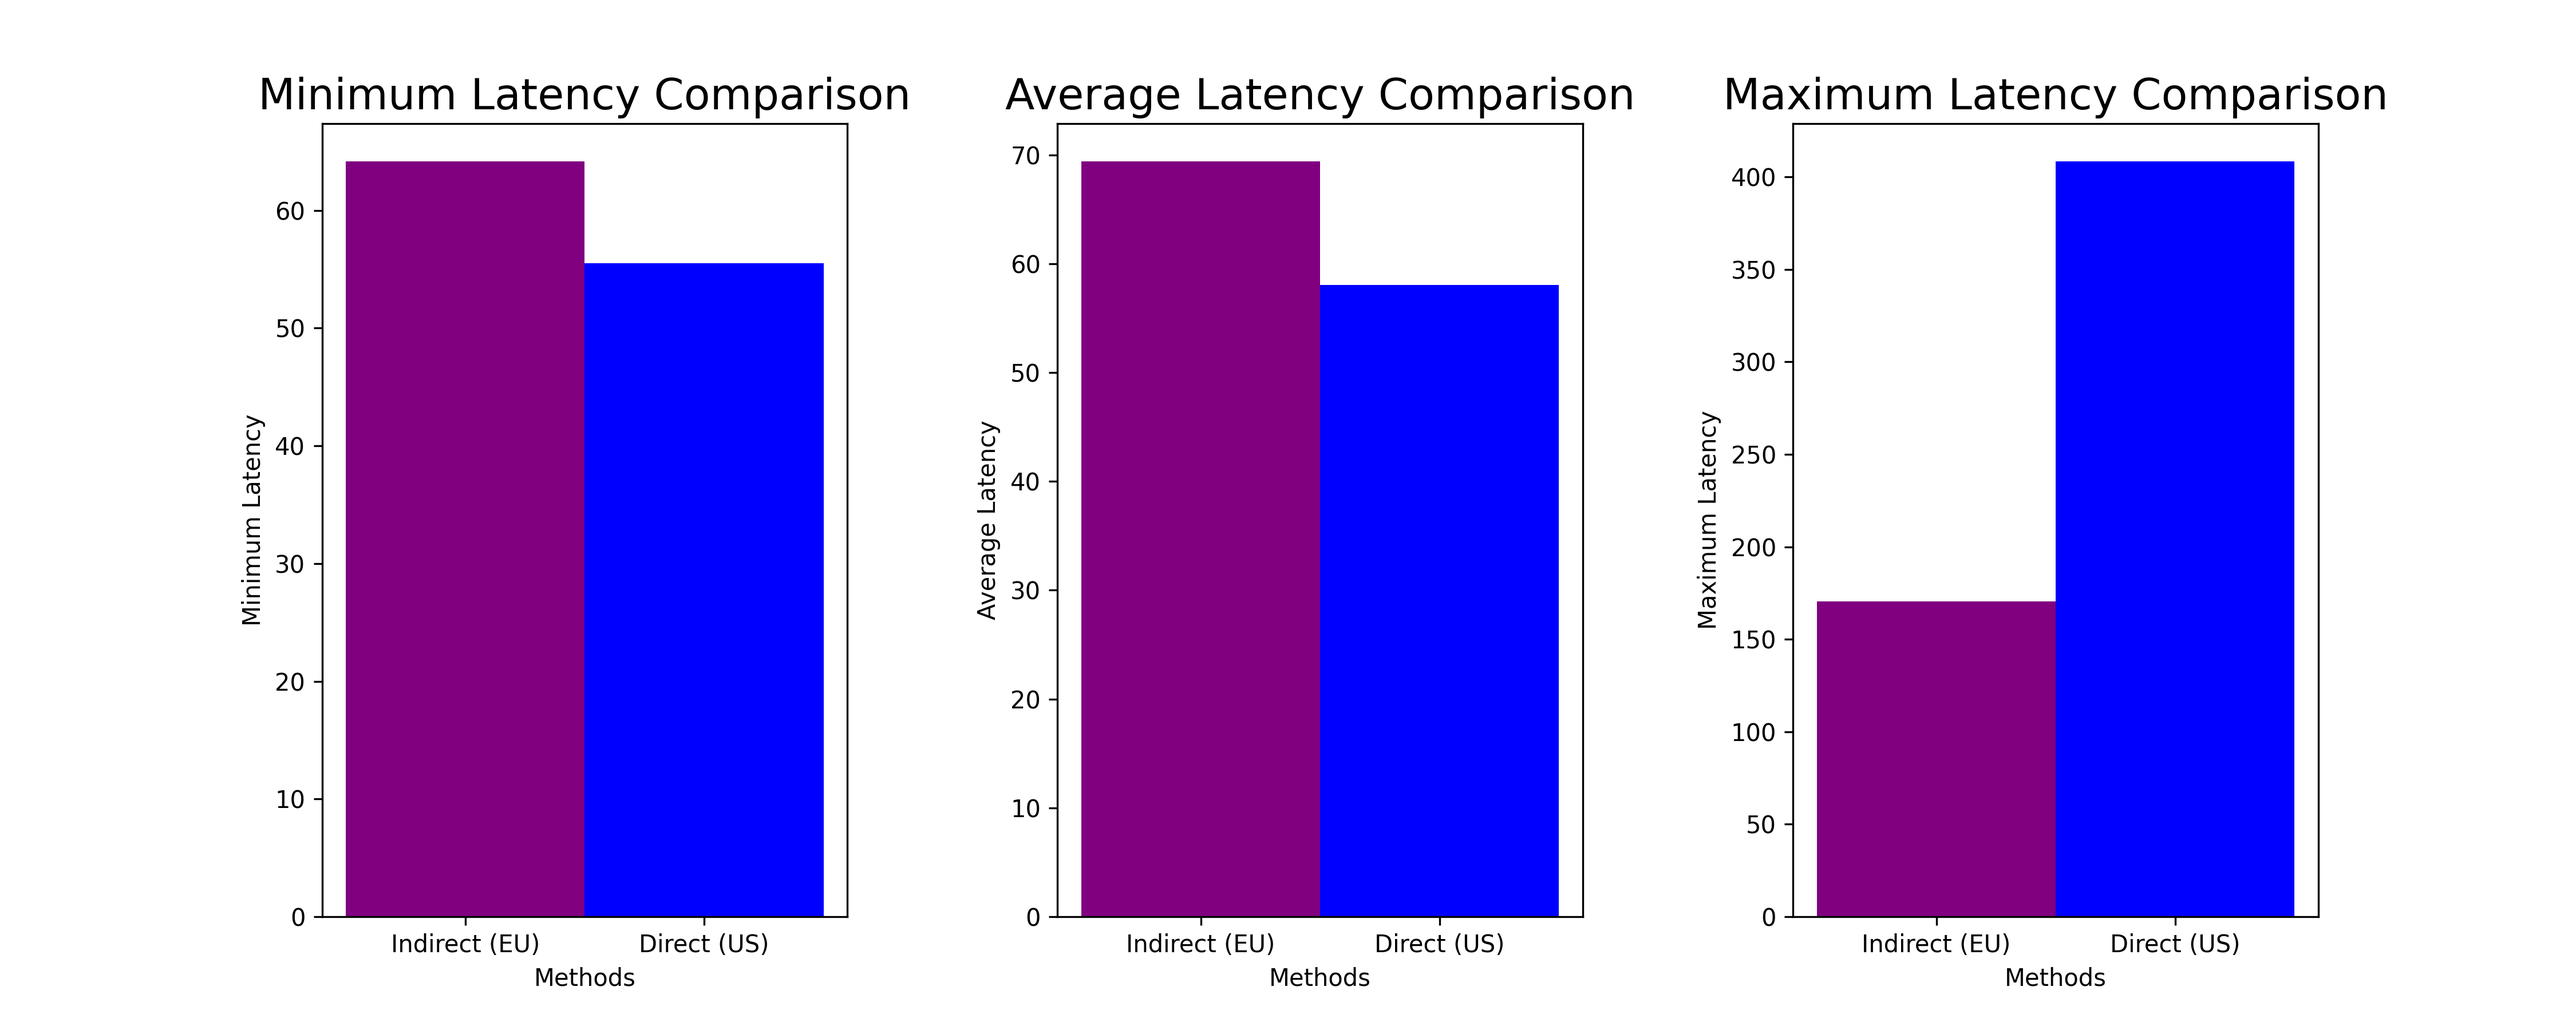
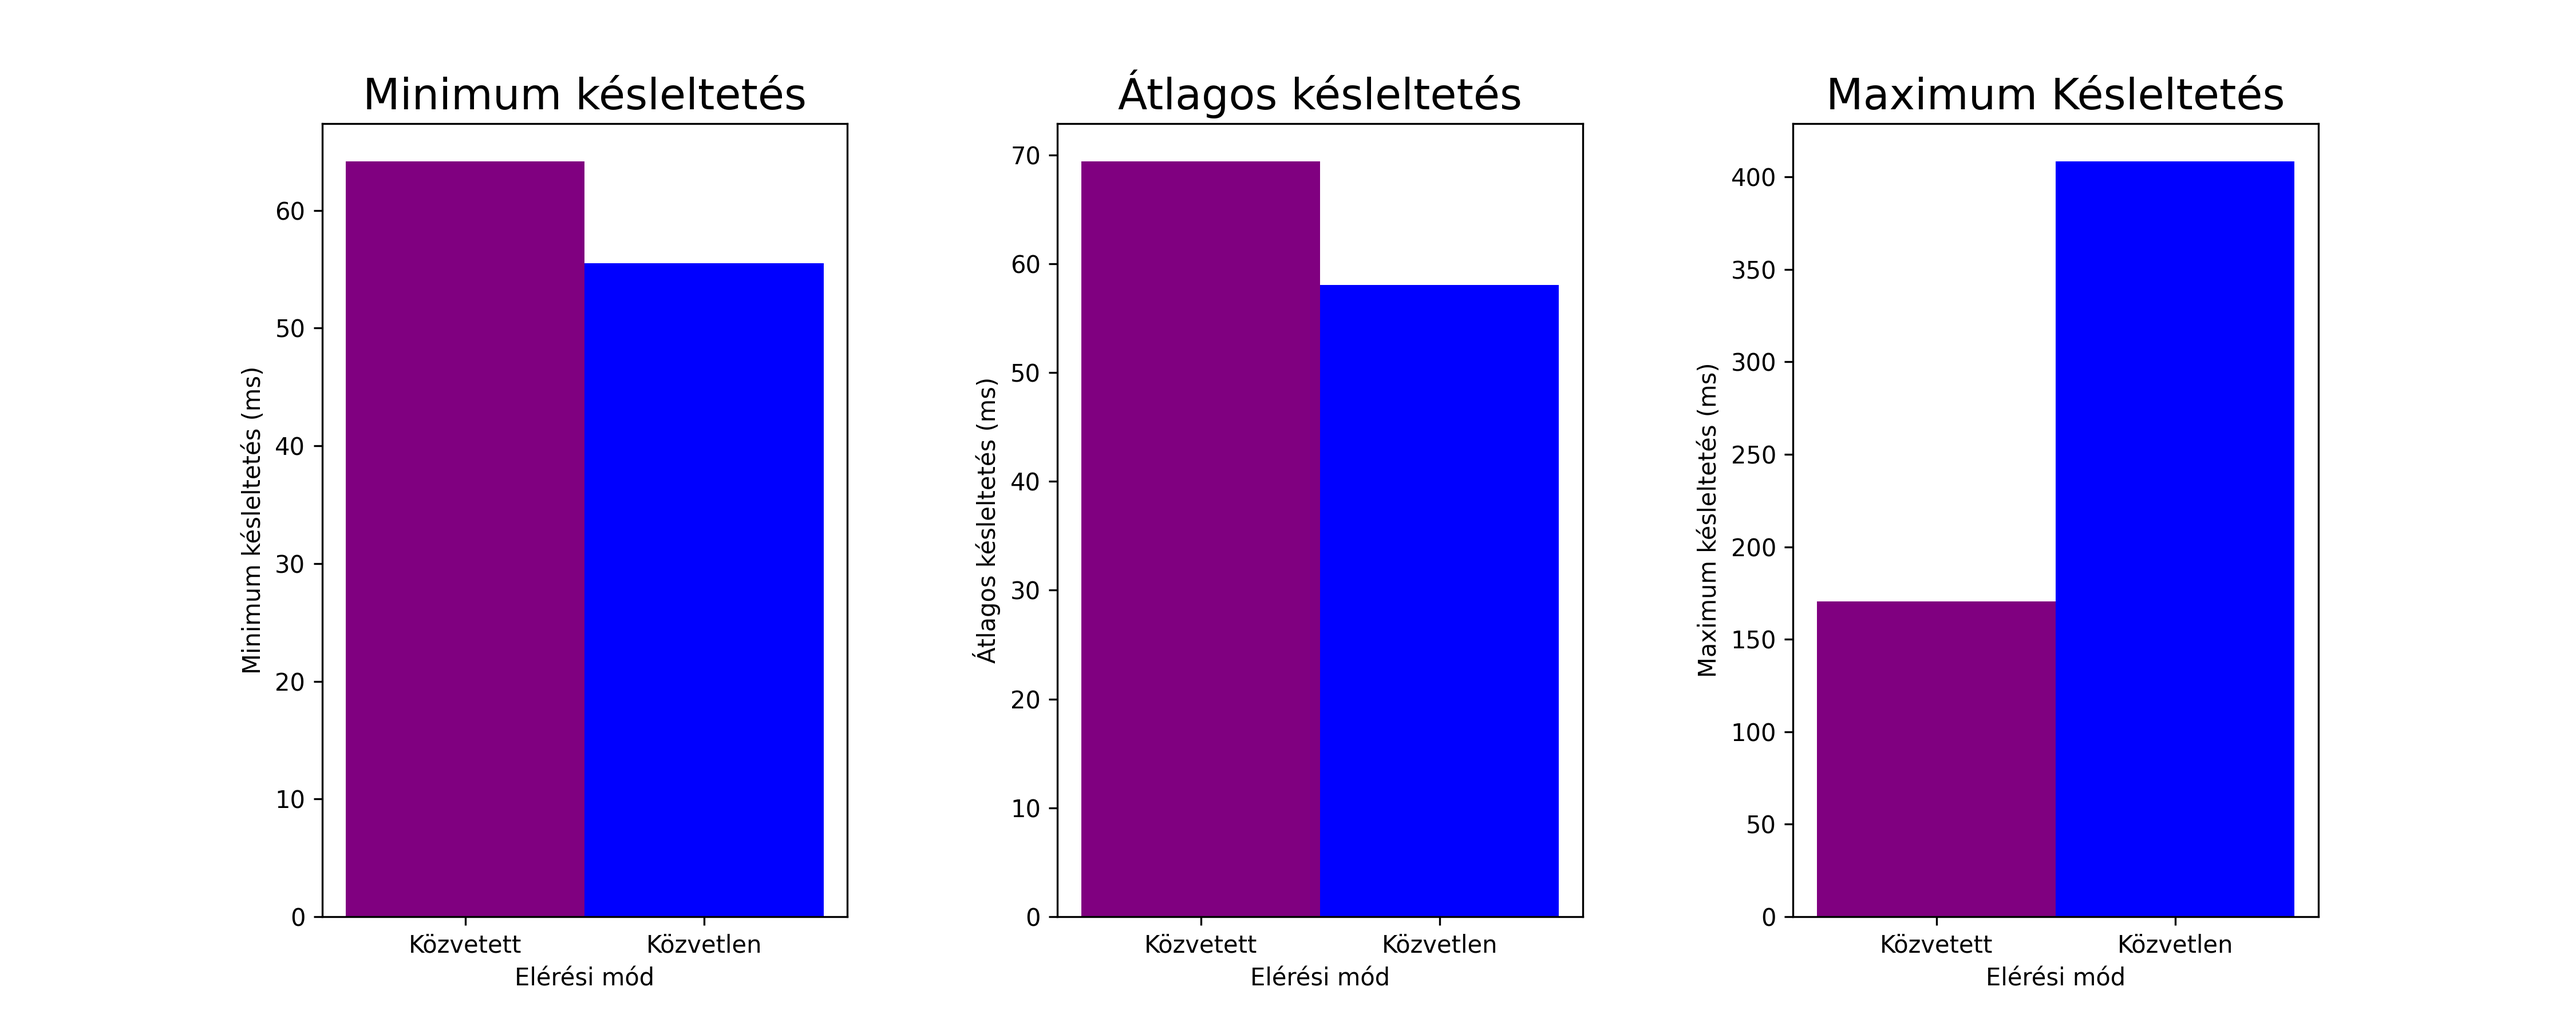
done

diff --git a/barplot_jitter.py b/barplot_jitter.py
@@ -1,0 +1,55 @@
+import pandas as pd
+import matplotlib.pyplot as plt
+
+# Read the data from server_report_eu.csv and server_report_us.csv
+df_eu = pd.read_csv('server_report_eu.csv', delimiter=',')
+df_us = pd.read_csv('server_report_us.csv', delimiter=',')
+
+# Calculate minimum, average, and maximum jitter for EU and US
+eu_min_jitter = df_eu['Jitter'].min()
+us_min_jitter = df_us['Jitter'].min()
+eu_avg_jitter = df_eu['Jitter'].mean()
+us_avg_jitter = df_us['Jitter'].mean()
+eu_max_jitter = df_eu['Jitter'].max()
+us_max_jitter = df_us['Jitter'].max()
+
+# Set the bar width and the positions of the bars on the x-axis
+bar_width = 0.2
+r = [0]
+
+# Create subplots with three touching bars for each type of jitter
+fig, axs = plt.subplots(nrows=1, ncols=3, figsize=(15, 6))
+plt.rcParams['font.size'] = 15
+
+# Minimum Jitter subplot
+axs[0].bar(r, [eu_min_jitter], color='green', width=bar_width)
+axs[0].bar([r[0] + bar_width], [us_min_jitter], color='blue', width=bar_width)
+axs[0].set_xticks([r[0], r[0] + bar_width])
+axs[0].set_xticklabels(['Közvetett', 'Közvetlen'])
+axs[0].set_xlabel('Elérési mód')
+axs[0].set_ylabel('Minimum jitter (ms)')
+axs[0].set_title('Minimum jitter')
+
+# Average Jitter subplot
+axs[1].bar(r, [eu_avg_jitter], color='green', width=bar_width)
+axs[1].bar([r[0] + bar_width], [us_avg_jitter], color='blue', width=bar_width)
+axs[1].set_xticks([r[0], r[0] + bar_width])
+axs[1].set_xticklabels(['Közvetett', 'Közvetlen'])
+axs[1].set_xlabel('Elérési mód')
+axs[1].set_ylabel('Átlagos jitter (ms)')
+axs[1].set_title('Átlagos jitter')
+
+# Maximum Jitter subplot
+axs[2].bar(r, [eu_max_jitter], color='green', width=bar_width)
+axs[2].bar([r[0] + bar_width], [us_max_jitter], color='blue', width=bar_width)
+axs[2].set_xticks([r[0], r[0] + bar_width])
+axs[2].set_xticklabels(['Közvetett', 'Közvetlen'])
+axs[2].set_xlabel('Elérési mód')
+axs[2].set_ylabel('Maximum jitter (ms)')
+axs[2].set_title('Maximum jitter')
+
+# Adjust the spacing between subplots
+plt.subplots_adjust(wspace=0.4)
+
+plt.savefig('jitter-comparison.png', dpi=300)
+plt.show()

diff --git a/barplot_latency.py b/barplot_latency.py
@@ -25,28 +25,28 @@ plt.rcParams['font.size'] = 15
 axs[0].bar(r, [eu_min_latency], color='purple', width=bar_width)
 axs[0].bar([r[0] + bar_width], [us_min_latency], color='blue', width=bar_width)
 axs[0].set_xticks([r[0], r[0] + bar_width])
-axs[0].set_xticklabels(['Indirect (EU)', 'Direct (US)'])
-axs[0].set_xlabel('Methods')
-axs[0].set_ylabel('Minimum Latency')
-axs[0].set_title('Minimum Latency Comparison')
+axs[0].set_xticklabels(['Közvetett', 'Közvetlen'])
+axs[0].set_xlabel('Elérési mód')
+axs[0].set_ylabel('Minimum késleltetés (ms)')
+axs[0].set_title('Minimum késleltetés')
 
 # Average Latency subplot
 axs[1].bar(r, [eu_avg_latency], color='purple', width=bar_width)
 axs[1].bar([r[0] + bar_width], [us_avg_latency], color='blue', width=bar_width)
 axs[1].set_xticks([r[0], r[0] + bar_width])
-axs[1].set_xticklabels(['Indirect (EU)', 'Direct (US)'])
-axs[1].set_xlabel('Methods')
-axs[1].set_ylabel('Average Latency')
-axs[1].set_title('Average Latency Comparison')
+axs[1].set_xticklabels(['Közvetett', 'Közvetlen'])
+axs[1].set_xlabel('Elérési mód')
+axs[1].set_ylabel('Átlagos késleltetés (ms)')
+axs[1].set_title('Átlagos késleltetés')
 
 # Maximum Latency subplot
 axs[2].bar(r, [eu_max_latency], color='purple', width=bar_width)
 axs[2].bar([r[0] + bar_width], [us_max_latency], color='blue', width=bar_width)
 axs[2].set_xticks([r[0], r[0] + bar_width])
-axs[2].set_xticklabels(['Indirect (EU)', 'Direct (US)'])
-axs[2].set_xlabel('Methods')
-axs[2].set_ylabel('Maximum Latency')
-axs[2].set_title('Maximum Latency Comparison')
+axs[2].set_xticklabels(['Közvetett', 'Közvetlen'])
+axs[2].set_xlabel('Elérési mód')
+axs[2].set_ylabel('Maximum késleltetés (ms)')
+axs[2].set_title('Maximum Késleltetés')
 
 # Adjust the spacing between subplots
 plt.subplots_adjust(wspace=0.4)
